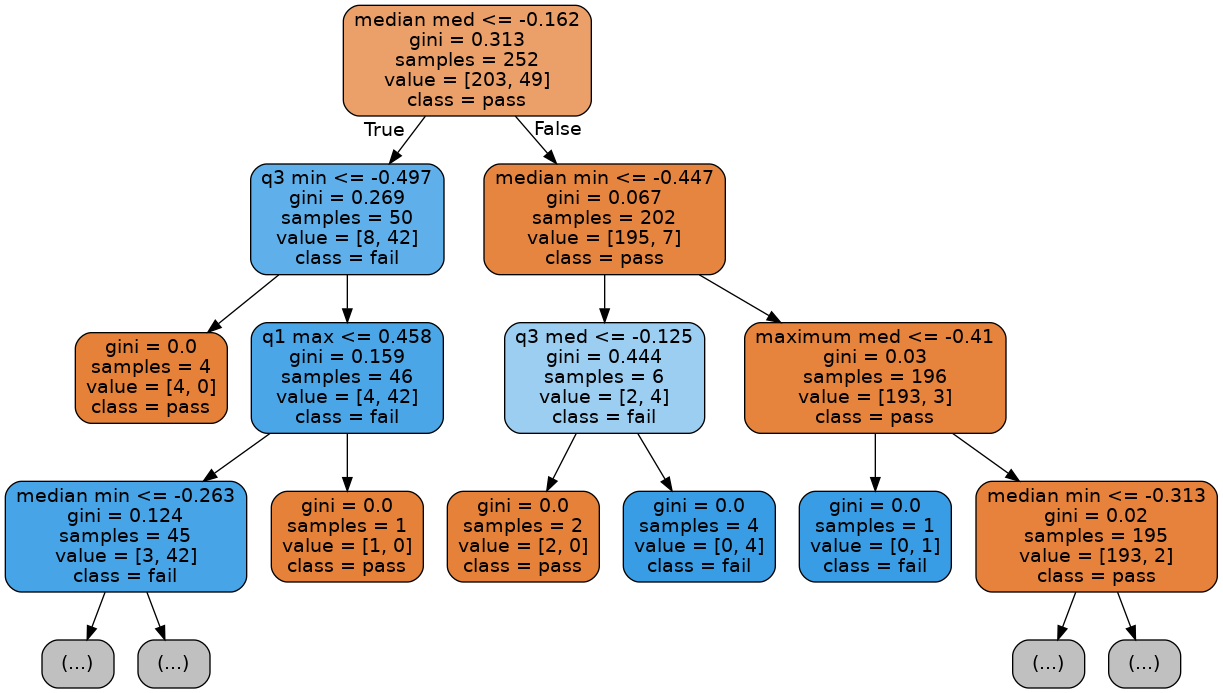
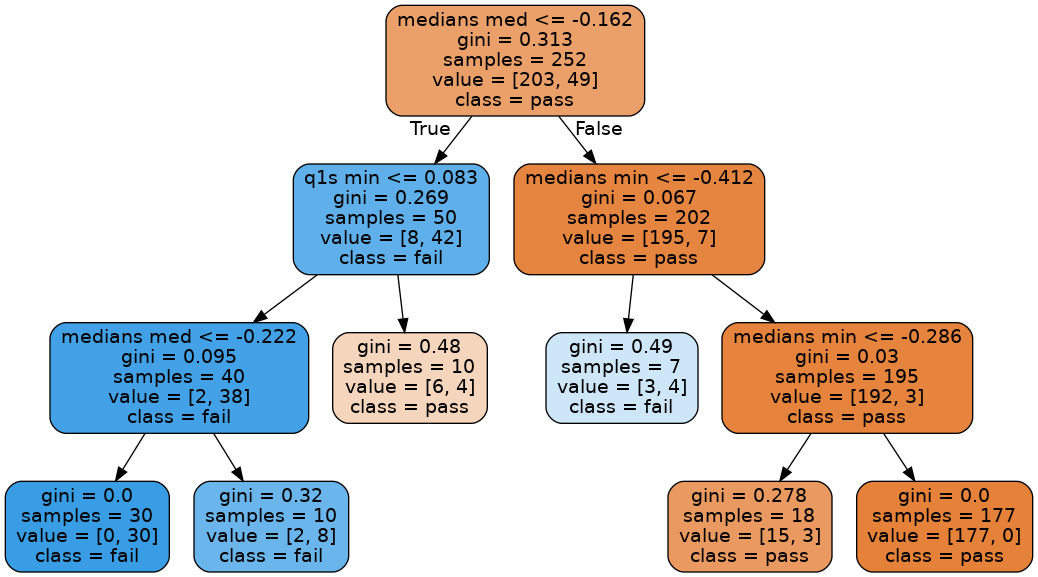
Finis decision tree

diff --git a/projekt-01-kapitoly-chapters.tex b/projekt-01-kapitoly-chapters.tex
@@ -1036,18 +1036,33 @@ comparison with learned threshold the tree decides to which branch it will
 continue. Each leaf of the tree contains label that is returned for the queried
 vector which led to the leaf.
 
-Learning of the model involves the creation of the decision tree.
+Learning of the model involves the construction of the decision tree. The
+construction looks for the best component of vector for splitting the dataset by
+classes. It creates a decision node and splits the training dataset based on the
+selected component to the decision branches. This process is recursively
+repeated with each part of the split dataset until the split contains vectors of
+single class (purity of the node is 1) or any additional restrictive condition
+is met.
 
-They are easy to interpret and visualize. Example in Figure \ref{fig:decision_tree}.
-Disadvantage is high chance of overfitting.
+Main advantage of the decision tree is its transparency and easy visualization
+of the model. In Figure \ref{fig:decision_tree} there is visualization of
+decision tree constrained by depth and samples count in leaf nodes built with
+our dataset of performance comparisons.
+
+Disadvantage of the decision tree is sensitivity to noisy data and is high
+chance of overfitting, because the tree tries to fit the whole dataset and has
+100\% prediction accuracy on already seen data. This issue can be suppressed by
+reducing maximum depth of the tree, setting minimal amount of samples required
+to split impure node into another decision.
 
 \begin{figure}
   \centering
   \includegraphics[width=14cm]{decision_tree}
-  \caption{Part of decision tree created by Decision tree classifier and
-    rendered by Graphviz library for Python. It shows the first three layers of the
-    decision tree. First line of non-leaf node shows the condition for choosing
-    the next decision branch. \emph{gini} property of node shows its impurity --
+  \caption{Decision tree created by Decision tree classifier and rendered by
+    Graphviz library for Python. It shows decision tree generated on our
+    performance comparison data constrained by depth and samples count in leaf
+    node. First line of non-leaf node shows the condition for choosing the next
+    decision branch. \emph{gini} property of node shows its impurity --
     proportion of training data not fitting the class of the node. Leaf nodes
     have 0 impurity because they contain vectors of single class. Parameters
     \emph{samples} and \emph{value} show the amount of training vectors for the
